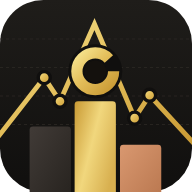
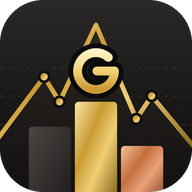
v0.39.1 : vraie icône GOATout (fichier fourni) à la place du dessin refait
Claude-Session: https://claude.ai/code/session_018rARPkjmdhaBjD8zDZDM4V

diff --git a/sw.js b/sw.js
@@ -3,7 +3,7 @@
 // Changer VERSION à chaque mise en ligne pour que le téléphone se mette à jour.
 import { deposerPartage } from './js/db.js';
 
-const VERSION = '0.39.0';
+const VERSION = '0.39.1';
 const CACHE = `mes-sorties-${VERSION}`;
 const FICHIERS = [
   './', 'index.html', 'manifest.webmanifest',
@@ -19,7 +19,7 @@ const FICHIERS = [
   'fonts/barlow-condensed-latin-700-normal.woff2',
   'fonts/space-grotesk-latin-500-normal.woff2',
   'fonts/space-grotesk-latin-700-normal.woff2',
-  'icons/icone.svg', 'icons/icone-192.png', 'icons/icone-512.png',
+  'icons/icone-192.png', 'icons/icone-512.png',
 ];
 
 self.addEventListener('install', (e) => {

diff --git a/index.html b/index.html
@@ -8,7 +8,7 @@
   <meta name="theme-color" content="#0f0e0d" media="(prefers-color-scheme: dark)">
   <meta name="theme-color" content="#f6f1e7" media="(prefers-color-scheme: light)">
   <link rel="manifest" href="manifest.webmanifest">
-  <link rel="icon" href="icons/icone.svg" type="image/svg+xml">
+  <link rel="icon" href="icons/icone-192.png" type="image/png">
   <link rel="apple-touch-icon" href="icons/icone-192.png">
   <link rel="stylesheet" href="vendor/leaflet/leaflet.css">
   <link rel="stylesheet" href="css/app.css">

diff --git a/js/reglages.js b/js/reglages.js
@@ -32,7 +32,7 @@ export async function afficherReglages(page, toast) {
   const derniereHausse = (await lireHaussesFtp()).at(-1) ?? null;
   page.innerHTML = `
   <section class="carte marque-bloc">
-    <img class="marque-icone" src="icons/icone.svg" alt="" width="72" height="72">
+    <img class="marque-icone" src="icons/icone-192.png" alt="" width="72" height="72">
     <div>
       <p class="logo-mot">GOAT<span class="out">out</span></p>
       <p class="accroche">Go out. Be the GOAT.</p>

diff --git a/js/image-sortie.js b/js/image-sortie.js
@@ -160,7 +160,7 @@ function chargerLogo() {
     const fin = setTimeout(() => ok(null), 3000);
     img.onload = () => { clearTimeout(fin); ok(img); };
     img.onerror = () => { clearTimeout(fin); ok(null); };
-    img.src = 'icons/icone.svg';
+    img.src = 'icons/icone-192.png';
   });
 }
 const TEXTE = "system-ui, -apple-system, 'Segoe UI', Roboto, sans-serif";

diff --git a/js/app.js b/js/app.js
@@ -21,7 +21,7 @@ import {
 } from './import.js';
 
 
-export const VERSION_APPLI = '0.39.0 · GOATout';
+export const VERSION_APPLI = '0.39.1 · icône GOATout';
 
 // Noms de lieux (OpenStreetMap) gardés dans le réglage « lieux »
 brancherCache(() => lireReglage('lieux'), (c) => ecrireReglage('lieux', c));

diff --git a/CLAUDE.md b/CLAUDE.md
@@ -538,9 +538,10 @@ l'instant »** — à proposer quand il voudra :
   cartes #1c1a17 / #27241f, lignes #3a342c, texte #f4efe6, or #f0cf73 (accent), cuivre #e9a178
   (accroches), or foncé #c99a34 ; thème clair : fond crème #f6f1e7, accent #e8c15a, traits #8a6410.
   Remplace « Anthracite adouci » (v0.27.0). Les anneaux d'objectifs gardent rouge / bleu (demande
-  de Cyril v0.17.0) et la trace sur les cartes OSM reste orange (contraste). **Icône** refaite en
-  SVG d'après son image (`icons/icone.svg`, PNG 192 / 512 / maskable rendus avec Playwright) : barres
-  noir / or / bronze, courbe dorée, « G ». Image à partager : nom GOATout et icône. Sauvegarde
+  de Cyril v0.17.0) et la trace sur les cartes OSM reste orange (contraste). **Icône** : fichier fourni
+  par Cyril (PNG 1024, d'abord redessinée en SVG d'après une capture, puis remplacée en v0.39.1) ->
+  `icons/icone-192.png`, `icone-512.png` (coins arrondis) et `icone-maskable-512.png` (plein cadre) ;
+  plus de SVG. Image à partager : nom GOATout et icône. Sauvegarde
   téléchargée : `goatout-sauvegarde-<date>.zip` (le format interne reste `mes-sorties` et
   `sauvegarde-mes-sorties.json` : les anciennes sauvegardes se restaurent). **Identifiants internes
   inchangés exprès** : base IndexedDB `mes-sorties` (la renommer ferait perdre les données),
